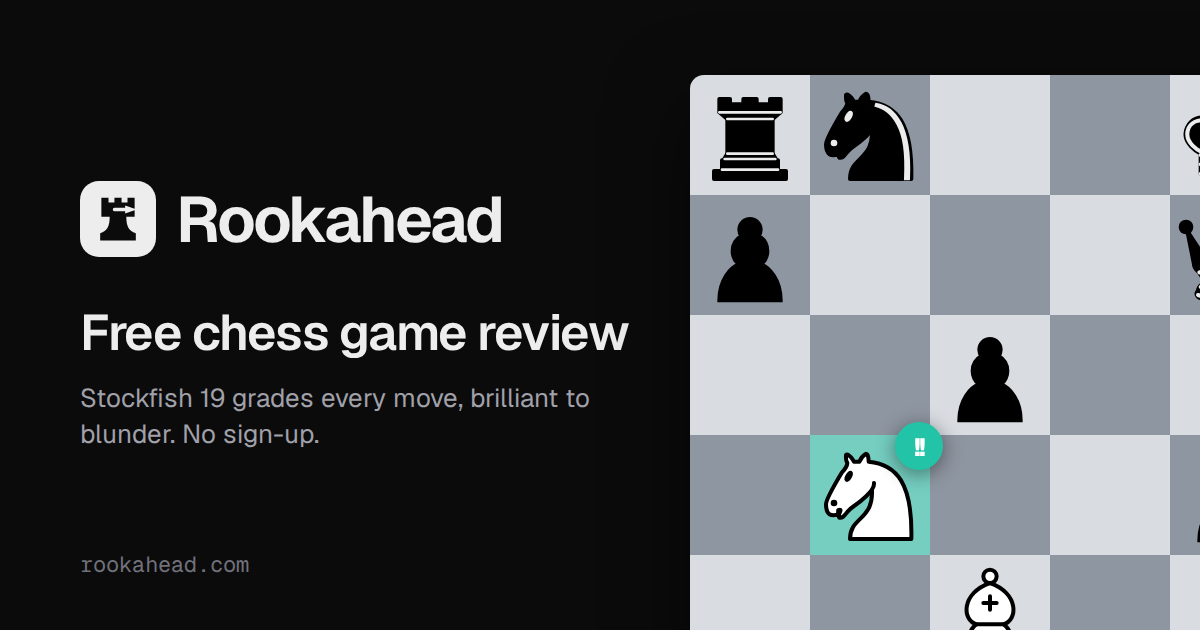
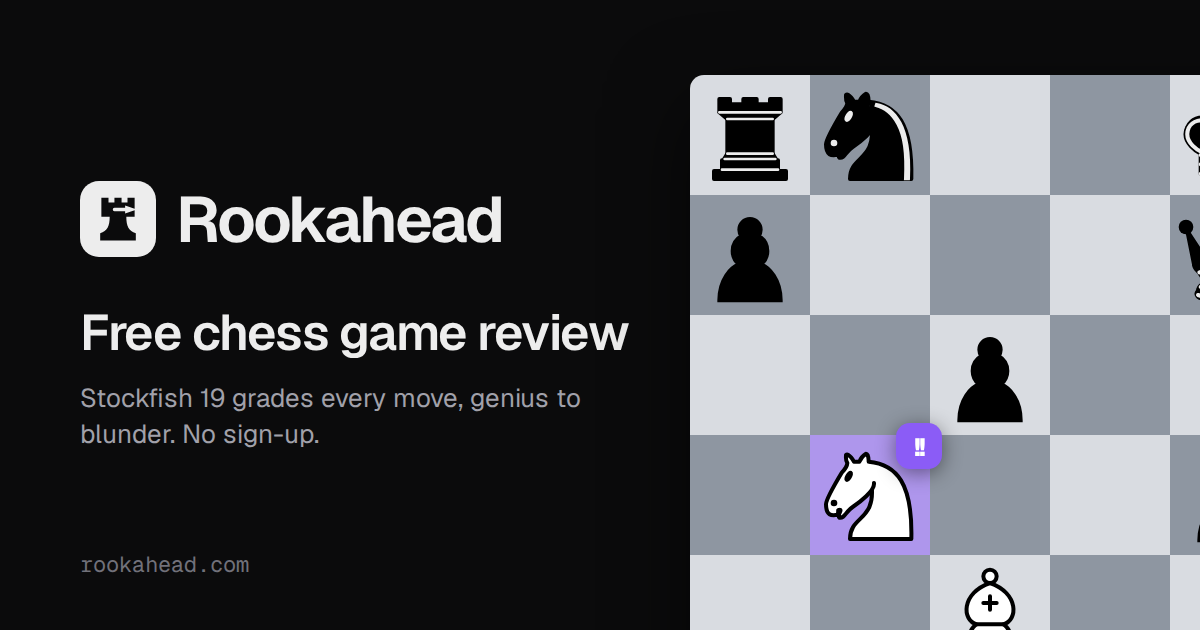
Rookahead's own move verdicts
Our own names and badges for every verdict.

Changed region(s): [[0.6475, 0.6635, 0.8017, 0.9048], [0.37, 0.6032, 0.4933, 0.6635]]

diff --git a/src/components/ClassIcon.tsx b/src/components/ClassIcon.tsx
@@ -1,58 +1,51 @@
 import { CLASS_INFO, type MoveClass } from '../lib/classify'
 
-const TEXT_GLYPH: Partial<Record<MoveClass, string>> = {
-  brilliant: '!!',
-  great: '!',
-  inaccuracy: '?!',
-  mistake: '?',
-  blunder: '??',
+/** Chess notation where it exists (nobody owns !! or ??). */
+const TEXT_GLYPH: Partial<Record<MoveClass, { text: string; size: number }>> = {
+  brilliant: { text: '!!', size: 50 },
+  great: { text: '!', size: 62 },
+  inaccuracy: { text: '?!', size: 46 },
+  mistake: { text: '?', size: 60 },
+  blunder: { text: '??', size: 46 },
 }
 
-function Glyph({ cls }: { cls: MoveClass }) {
-  const text = TEXT_GLYPH[cls]
-  if (text) {
-    return (
-      <text x="50" y="52" textAnchor="middle" dominantBaseline="central" fontSize={text.length > 1 ? 50 : 60} fontWeight="800" fill="#fff" letterSpacing="-4">
-        {text}
-      </text>
-    )
-  }
-  const stroke = { fill: 'none', stroke: '#fff', strokeWidth: 10, strokeLinecap: 'round', strokeLinejoin: 'round' } as const
+const stroke = { fill: 'none', stroke: '#fff', strokeWidth: 9, strokeLinecap: 'round', strokeLinejoin: 'round' } as const
+const solid = (width: number) => ({ fill: '#fff', stroke: '#fff', strokeWidth: width, strokeLinejoin: 'round' }) as const
+
+/** Rookahead's own drawings of the familiar marks. */
+function Mark({ cls }: { cls: MoveClass }) {
   switch (cls) {
-    case 'best':
-      return <path d="M50 18l9.4 19.6 21.6 2.6-15.9 14.8 4.1 21.4L50 66 30.8 76.4l4.1-21.4L19 40.2l21.6-2.6z" fill="#fff" />
-    case 'excellent':
-      return (
-        <g fill="#fff">
-          <rect x="22" y="46" width="13" height="30" rx="3" />
-          <path d="M40 46l11-19c2.5-4.5 9-3 9 2.5L58 42h14c5 0 8.5 4.5 7.3 9.3l-4.6 18.5A8 8 0 0 1 67 76H40z" />
-        </g>
-      )
-    case 'good':
-      return <path d="M28 52l15 15 30-32" {...stroke} />
-    case 'book':
-      return (
-        <g fill="#fff">
-          <path d="M22 31c9-3 18-2 25 4v38c-7-5-16-6-25-3z" />
-          <path d="M78 31c-9-3-18-2-25 4v38c7-5 16-6 25-3z" />
-        </g>
-      )
-    case 'miss':
-      return <path d="M34 34l32 32M66 34L34 66" {...stroke} />
+    case 'best': // star
+      return <path d="M50 24l8 16.6 18.2 2.6-13.2 12.9 3.1 18.1L50 65.6l-16.3 8.6 3.1-18.1-13.2-12.9 18.2-2.6z" {...solid(4)} />
+    case 'excellent': // thumbs-up
+      return <path d="M28 50h9v24h-9zM43 50l9-19c2.5-5 9.5-3.5 9 2l-1.5 12H71c4 0 7 3.6 6 7.6l-3.6 14.6A6 6 0 0 1 67.6 72H43z" {...solid(3)} />
+    case 'good': // check
+      return <path d="M30 52l13 13 27-29" {...stroke} />
+    case 'book': // an opening tree
+      return <path d="M50 76V55M50 55 33 37M50 55 67 37M33 24a6 6 0 1 0 .01 0zM67 24a6 6 0 1 0 .01 0z" {...stroke} />
+    case 'miss': // a ring: the chance that went by
+      return <path d="M50 30a20 20 0 1 0 .01 0z" {...stroke} />
     case 'forced':
-      return <path d="M28 50h40M54 36l14 14-14 14" {...stroke} />
+      return <path d="M30 50h36M54 36l14 14-14 14" {...stroke} />
     default:
       return null
   }
 }
 
-/** Round classification badge, e.g. the green star for "best". */
+/** A move's verdict badge: a rounded square in the verdict's colour. */
 export function ClassIcon({ cls, size = 18, title }: { cls: MoveClass; size?: number; title?: string }) {
   const info = CLASS_INFO[cls]
+  const glyph = TEXT_GLYPH[cls]
   return (
     <svg className="class-icon" width={size} height={size} viewBox="0 0 100 100" role="img" aria-label={title ?? info.label}>
-      <circle cx="50" cy="50" r="48" fill={info.color} />
-      <Glyph cls={cls} />
+      <rect x="4" y="4" width="92" height="92" rx="28" fill={info.color} />
+      {glyph ? (
+        <text x="50" y="53" textAnchor="middle" dominantBaseline="central" fontSize={glyph.size} fontWeight="800" fill="#fff" letterSpacing="-3">
+          {glyph.text}
+        </text>
+      ) : (
+        <Mark cls={cls} />
+      )}
     </svg>
   )
 }

diff --git a/src/lib/commentary.ts b/src/lib/commentary.ts
@@ -6,24 +6,20 @@ const article = (word: string) => (/^[aeiou]/i.test(word) ? 'an' : 'a')
 
 /** One-line verdict for a classified move, e.g. "Nxe5 is a blunder". */
 export function moveHeadline(san: string, review: MoveReview): string {
-  switch (review.cls) {
-    case 'brilliant':
-      return `${san} is brilliant!`
-    case 'great':
-      return `${san} is a great move`
-    case 'best':
-      return `${san} is the best move`
-    case 'book':
-      return `${san} is a book move`
-    case 'forced':
-      return `${san} is forced`
-    case 'miss':
-      return `${san} is a miss`
-    default: {
-      const label = CLASS_INFO[review.cls].label.toLowerCase()
-      return `${san} is ${article(label)} ${label}`
-    }
+  const HEADLINES: Record<MoveReview['cls'], string> = {
+    brilliant: 'is genius!',
+    great: 'is the only move',
+    best: 'is precise',
+    excellent: 'is sharp',
+    good: 'is solid',
+    book: 'is theory',
+    inaccuracy: 'is a slip',
+    mistake: 'is an error',
+    miss: 'is an oversight',
+    blunder: 'is a blunder',
+    forced: 'is forced',
   }
+  return `${san} ${HEADLINES[review.cls]}`
 }
 
 /** A second sentence giving context, when there's something useful to say. */
@@ -32,7 +28,7 @@ export function moveDetail(review: MoveReview, bestSan?: string): string | undef
     case 'brilliant':
       return 'A sound sacrifice — the material comes back with interest.'
     case 'great':
-      return 'The only move that keeps the position together.'
+      return 'Nothing else holds the position together.'
     case 'miss':
       return bestSan ? `Your opponent slipped, and ${bestSan} would have punished it.` : 'Your opponent slipped, and this lets them off the hook.'
     case 'inaccuracy':
@@ -74,7 +70,7 @@ export function gameSummary(report: GameReport, tree: GameTree, headers: PgnHead
   }
 
   const brilliant = Object.values(report.moves).find((m) => m.cls === 'brilliant')
-  if (brilliant) parts.push(`Look out for ${moveNumberLabel(brilliant.ply)} ${tree.nodes[brilliant.nodeId]?.san} — brilliant!`)
+  if (brilliant) parts.push(`Look out for ${moveNumberLabel(brilliant.ply)} ${tree.nodes[brilliant.nodeId]?.san} — genius!`)
 
   return parts.join(' ') || 'Here’s how the game went.'
 }

diff --git a/src/lib/share.test.ts b/src/lib/share.test.ts
@@ -226,17 +226,17 @@ describe('game conversion', () => {
 describe('share text', () => {
   const players = { White: 'Hikaru', Black: 'Bortnyk' }
 
-  it('describes a brilliant moment', () => {
-    expect(momentShareText(40, 'Nxc4', 'brilliant', players)).toBe('20… Nxc4!! Brilliant · Hikaru vs Bortnyk, reviewed on Rookahead')
+  it('describes a genius moment', () => {
+    expect(momentShareText(40, 'Nxc4', 'brilliant', players)).toBe('20… Nxc4!! Genius · Hikaru vs Bortnyk, reviewed on Rookahead')
   })
 
   it('annotates only the classes that have a symbol', () => {
-    expect(momentShareText(9, 'Qb3', 'great', players)).toBe('5. Qb3! Great · Hikaru vs Bortnyk, reviewed on Rookahead')
-    expect(momentShareText(10, 'f6', 'inaccuracy', players)).toBe('5… f6?! Inaccuracy · Hikaru vs Bortnyk, reviewed on Rookahead')
-    expect(momentShareText(10, 'f6', 'mistake', players)).toBe('5… f6? Mistake · Hikaru vs Bortnyk, reviewed on Rookahead')
-    expect(momentShareText(10, 'f6', 'miss', players)).toBe('5… f6? Miss · Hikaru vs Bortnyk, reviewed on Rookahead')
+    expect(momentShareText(9, 'Qb3', 'great', players)).toBe('5. Qb3! Only move · Hikaru vs Bortnyk, reviewed on Rookahead')
+    expect(momentShareText(10, 'f6', 'inaccuracy', players)).toBe('5… f6?! Slip · Hikaru vs Bortnyk, reviewed on Rookahead')
+    expect(momentShareText(10, 'f6', 'mistake', players)).toBe('5… f6? Error · Hikaru vs Bortnyk, reviewed on Rookahead')
+    expect(momentShareText(10, 'f6', 'miss', players)).toBe('5… f6? Oversight · Hikaru vs Bortnyk, reviewed on Rookahead')
     expect(momentShareText(10, 'f6', 'blunder', players)).toBe('5… f6?? Blunder · Hikaru vs Bortnyk, reviewed on Rookahead')
-    expect(momentShareText(9, 'e4', 'best', players)).toBe('5. e4 Best · Hikaru vs Bortnyk, reviewed on Rookahead')
+    expect(momentShareText(9, 'e4', 'best', players)).toBe('5. e4 Precise · Hikaru vs Bortnyk, reviewed on Rookahead')
   })
 
   it('describes a move without a review', () => {

diff --git a/src/index.css b/src/index.css
@@ -977,17 +977,17 @@ svg {
 }
 
 /* Last-move squares take the colour of the move's classification. */
-.board cg-board square.cls-brilliant { background-color: rgba(34, 195, 166, 0.6); }
-.board cg-board square.cls-great { background-color: rgba(90, 143, 208, 0.6); }
-.board cg-board square.cls-best,
-.board cg-board square.cls-excellent { background-color: rgba(127, 191, 95, 0.6); }
-.board cg-board square.cls-good { background-color: rgba(143, 171, 138, 0.6); }
-.board cg-board square.cls-book { background-color: rgba(176, 141, 106, 0.6); }
-.board cg-board square.cls-inaccuracy { background-color: rgba(240, 192, 74, 0.6); }
-.board cg-board square.cls-mistake { background-color: rgba(240, 151, 58, 0.6); }
-.board cg-board square.cls-miss { background-color: rgba(239, 107, 91, 0.6); }
-.board cg-board square.cls-blunder { background-color: rgba(220, 74, 64, 0.65); }
-.board cg-board square.cls-forced { background-color: rgba(138, 144, 154, 0.55); }
+.board cg-board square.cls-brilliant { background-color: rgba(139, 92, 246, 0.55); }
+.board cg-board square.cls-great { background-color: rgba(47, 128, 237, 0.5); }
+.board cg-board square.cls-best { background-color: rgba(46, 158, 106, 0.55); }
+.board cg-board square.cls-excellent { background-color: rgba(79, 154, 60, 0.5); }
+.board cg-board square.cls-good { background-color: rgba(107, 127, 106, 0.5); }
+.board cg-board square.cls-book { background-color: rgba(138, 115, 80, 0.5); }
+.board cg-board square.cls-inaccuracy { background-color: rgba(201, 154, 22, 0.55); }
+.board cg-board square.cls-mistake { background-color: rgba(217, 113, 31, 0.55); }
+.board cg-board square.cls-miss { background-color: rgba(207, 75, 99, 0.55); }
+.board cg-board square.cls-blunder { background-color: rgba(199, 55, 47, 0.6); }
+.board cg-board square.cls-forced { background-color: rgba(91, 95, 104, 0.5); }
 
 .board cg-board square.move-dest {
   background: radial-gradient(rgba(0, 0, 0, 0.18) 19%, rgba(0, 0, 0, 0) 20%);

diff --git a/src/lib/classify.ts b/src/lib/classify.ts
@@ -27,18 +27,23 @@ export type MoveClass =
 /** Display order, best first (used for the summary table). */
 export const CLASS_ORDER: MoveClass[] = ['brilliant', 'great', 'best', 'excellent', 'good', 'book', 'inaccuracy', 'mistake', 'miss', 'blunder']
 
+/**
+ * Rookahead's own names and colours. Internal ids (and the share-link codes) keep the old names;
+ * only these labels and colours are shown. Mid-tone colours: readable as text on light and dark,
+ * and dark enough for white marks on the badges.
+ */
 export const CLASS_INFO: Record<MoveClass, { label: string; color: string }> = {
-  brilliant: { label: 'Brilliant', color: '#22c3a6' },
-  great: { label: 'Great', color: '#5a8fd0' },
-  best: { label: 'Best', color: '#7fbf5f' },
-  excellent: { label: 'Excellent', color: '#93c06a' },
-  good: { label: 'Good', color: '#8fab8a' },
-  book: { label: 'Book', color: '#b08d6a' },
-  inaccuracy: { label: 'Inaccuracy', color: '#f0c04a' },
-  mistake: { label: 'Mistake', color: '#f0973a' },
-  miss: { label: 'Miss', color: '#ef6b5b' },
-  blunder: { label: 'Blunder', color: '#dc4a40' },
-  forced: { label: 'Forced', color: '#8a909a' },
+  brilliant: { label: 'Genius', color: '#8b5cf6' },
+  great: { label: 'Only move', color: '#2f80ed' },
+  best: { label: 'Precise', color: '#2e9e6a' },
+  excellent: { label: 'Sharp', color: '#4f9a3c' },
+  good: { label: 'Solid', color: '#6b7f6a' },
+  book: { label: 'Theory', color: '#8a7350' },
+  inaccuracy: { label: 'Slip', color: '#c99a16' },
+  mistake: { label: 'Error', color: '#d9711f' },
+  miss: { label: 'Oversight', color: '#cf4b63' },
+  blunder: { label: 'Blunder', color: '#c7372f' },
+  forced: { label: 'Forced', color: '#5b5f68' },
 }
 
 /** Classes worth calling out with an icon in the move list and on the graph. */

diff --git a/scripts/og-image.html b/scripts/og-image.html
@@ -104,7 +104,7 @@
         content: '';
         position: absolute;
         inset: 0;
-        background: rgba(34, 195, 166, 0.55);
+        background: rgba(139, 92, 246, 0.55);
       }
       .cg-wrap piece {
         position: absolute;
@@ -130,7 +130,7 @@
         <span>Rookahead</span>
       </div>
       <h1>Free chess game review</h1>
-      <p>Stockfish 19 grades every move, brilliant to blunder. No sign-up.</p>
+      <p>Stockfish 19 grades every move, genius to blunder. No sign-up.</p>
     </div>
     <div class="url">rookahead.com</div>
     <div class="board cg-wrap" id="board"></div>
@@ -159,7 +159,7 @@
         if (name === 'b5') {
           sq.insertAdjacentHTML(
             'beforeend',
-            `<svg class="badge" viewBox="0 0 100 100"><circle cx="50" cy="50" r="48" fill="#22c3a6"/><text x="50" y="52" text-anchor="middle" dominant-baseline="central" font-size="50" font-weight="800" fill="#fff" letter-spacing="-4" font-family="Geist">!!</text></svg>`,
+            `<svg class="badge" viewBox="0 0 100 100"><rect x="4" y="4" width="92" height="92" rx="28" fill="#8b5cf6"/><text x="50" y="52" text-anchor="middle" dominant-baseline="central" font-size="50" font-weight="800" fill="#fff" letter-spacing="-4" font-family="Geist">!!</text></svg>`,
           )
         }
         board.append(sq)

diff --git a/src/lib/classify.test.ts b/src/lib/classify.test.ts
@@ -281,9 +281,18 @@ describe('openings', () => {
 describe('commentary', () => {
   it('writes natural headlines', () => {
     const base = { nodeId: 'x', ply: 1, color: 'white' as const, winBefore: 50, winAfter: 50, loss: 0, accuracy: 100, score: cp(0) }
-    expect(moveHeadline('Nf3', { ...base, cls: 'best' })).toBe('Nf3 is the best move')
-    expect(moveHeadline('Qh5', { ...base, cls: 'inaccuracy' })).toBe('Qh5 is an inaccuracy')
-    expect(moveHeadline('Qh5', { ...base, cls: 'blunder' })).toBe('Qh5 is a blunder')
+    const headline = (cls: Parameters<typeof moveHeadline>[1]['cls']) => moveHeadline('Nf3', { ...base, cls })
+    expect(headline('brilliant')).toBe('Nf3 is genius!')
+    expect(headline('great')).toBe('Nf3 is the only move')
+    expect(headline('best')).toBe('Nf3 is precise')
+    expect(headline('excellent')).toBe('Nf3 is sharp')
+    expect(headline('good')).toBe('Nf3 is solid')
+    expect(headline('book')).toBe('Nf3 is theory')
+    expect(headline('inaccuracy')).toBe('Nf3 is a slip')
+    expect(headline('mistake')).toBe('Nf3 is an error')
+    expect(headline('miss')).toBe('Nf3 is an oversight')
+    expect(headline('blunder')).toBe('Nf3 is a blunder')
+    expect(headline('forced')).toBe('Nf3 is forced')
   })
 })
 

diff --git a/src/pages/Analysis.tsx b/src/pages/Analysis.tsx
@@ -554,7 +554,7 @@ export function AnalysisPage({ settings, updateSettings, engine, status, active,
         title={line.length > 1 ? 'Ready when you are' : 'Nothing to review yet'}
         detail={
           line.length > 1
-            ? `Stockfish 19 will grade every move — brilliant to blunder — and work out each side’s accuracy.`
+            ? `Stockfish 19 will grade every move — genius to blunder — and work out each side’s accuracy.`
             : 'Load a game or play some moves on the board first.'
         }
       >

diff --git a/README.md b/README.md
@@ -3,9 +3,9 @@
 A chess analysis board running **Stockfish 19** in the browser, multi-threaded, with the full NNUE network.
 
 - Live analysis of any position: up to 5 engine lines, best-move arrows, eval bar
-- Game review: every move graded (brilliant, great, best, excellent, good, book, inaccuracy, mistake, miss, blunder),
+- Game review: every move graded with Rookahead's verdicts (Genius, Only move, Precise, Sharp, Solid, Theory, Slip, Error, Oversight, Blunder, Forced),
   accuracy per player, an eval graph marking the key moments, and a step-through mode with commentary
-- Import your recent games straight from **Chess.com** by username, or paste a PGN / FEN
+- Paste a PGN / FEN, or import recent games by username
 - Play your own moves on the board to explore side variations (promote or delete them later)
 - Clocks from the PGN, keyboard navigation, board themes, and the session survives a refresh
 - Move sounds (synthesised in the browser, no audio files) and animated pieces, verdicts and summary
@@ -38,10 +38,10 @@ Each move is measured in *expected points*: the mover's win chance before (with 
 The loss bands follow Chess.com's published thresholds — excellent < 2%, good < 5%, inaccuracy < 10%, mistake < 20%,
 blunder beyond that. On top of those (`src/lib/classify.ts`):
 
-- **Book** — the position is in the opening book (Lichess's CC0 opening list, `src/data/openings.json`)
-- **Great** — the engine's move, and the second-best move is at least 15% worse
-- **Brilliant** — a (near-)best move that gives up at least two pawns of material the engine's line doesn't win straight back
-- **Miss** — your opponent just made a mistake, you were winning, and you let most of it go
+- **Theory** (internally `book`) — the position is in the opening book (Lichess's CC0 opening list, `src/data/openings.json`)
+- **Only move** (internally `great`) — the engine's move, and the second-best move is at least 15% worse
+- **Genius** (internally `brilliant`) — a (near-)best move that gives up at least two pawns of material the engine's line doesn't win straight back
+- **Oversight** (internally `miss`) — your opponent just made a mistake, you were winning, and you let most of it go
 - **Accuracy** — Lichess's open formula (volatility-weighted and harmonic means of per-move accuracy)
 
 To rebuild the opening book: `node scripts/build-openings.mjs <dir with a.tsv … e.tsv>` from
